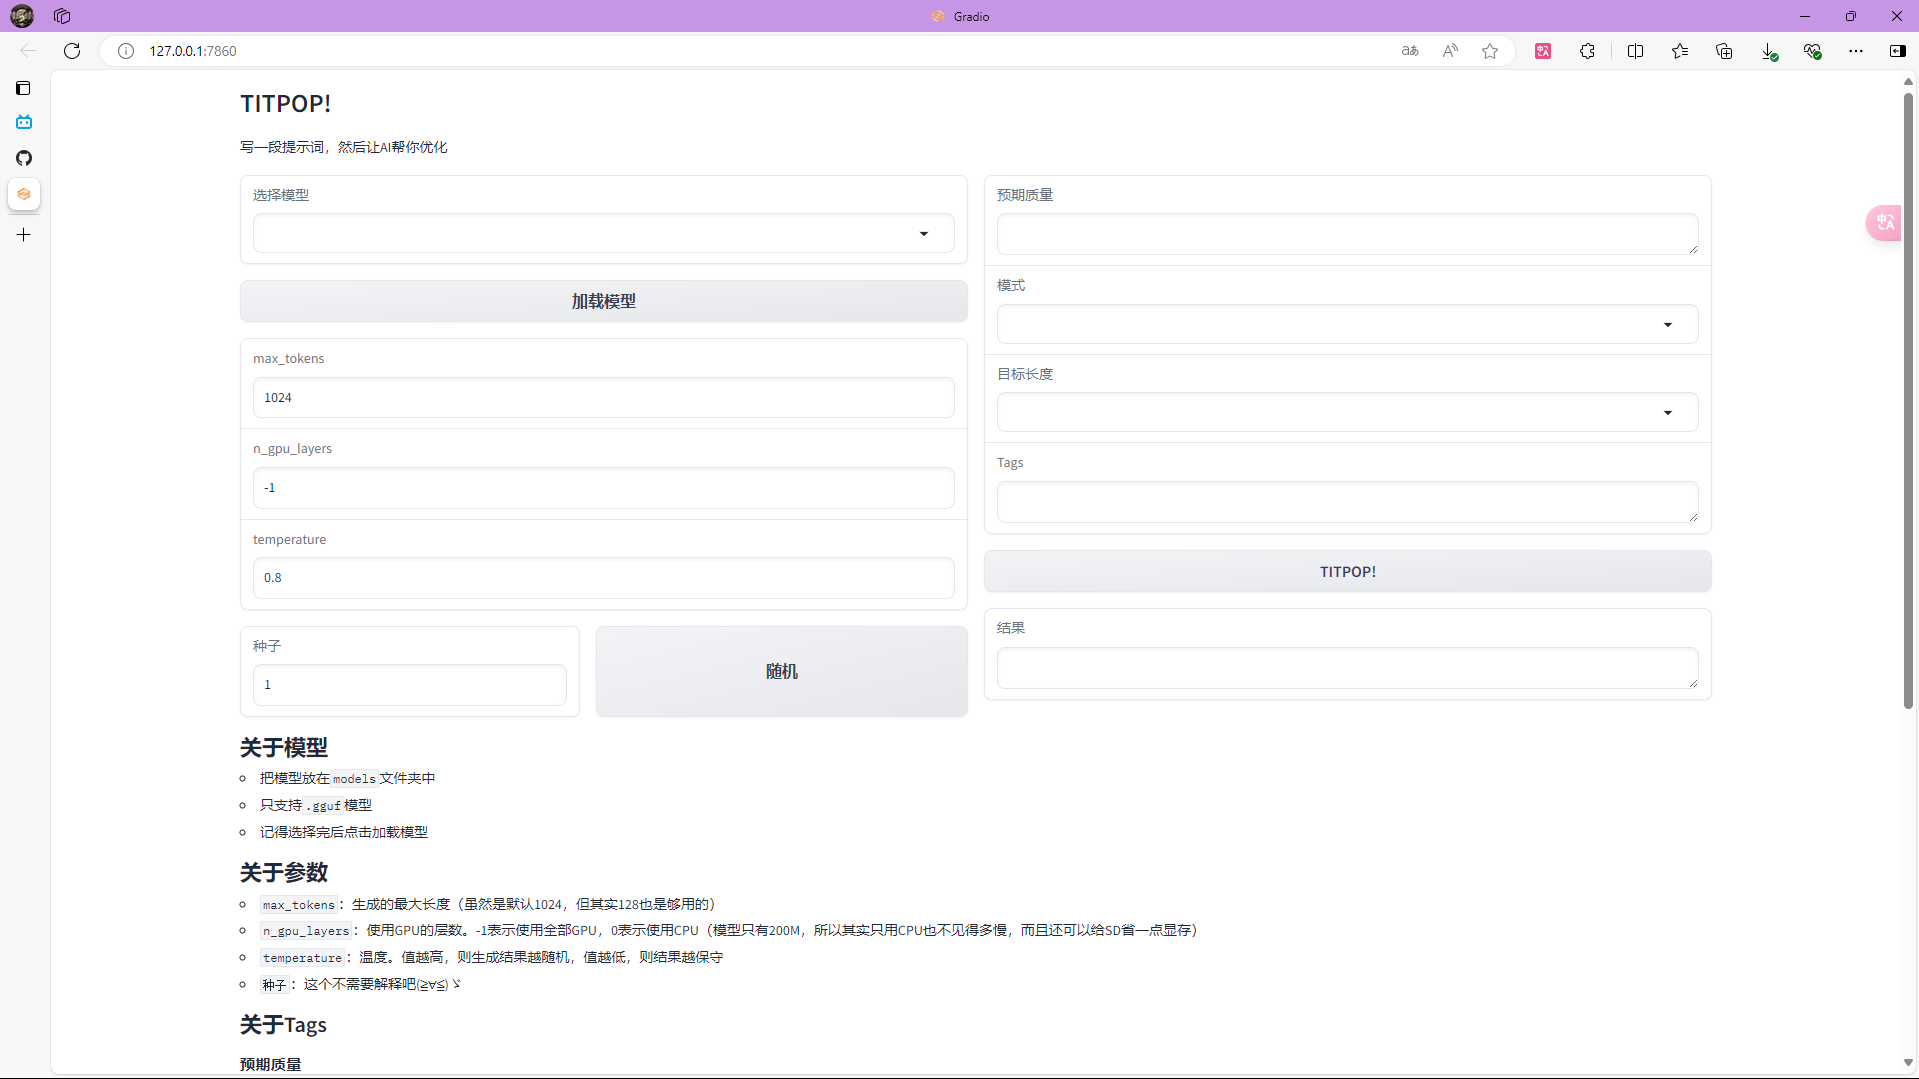
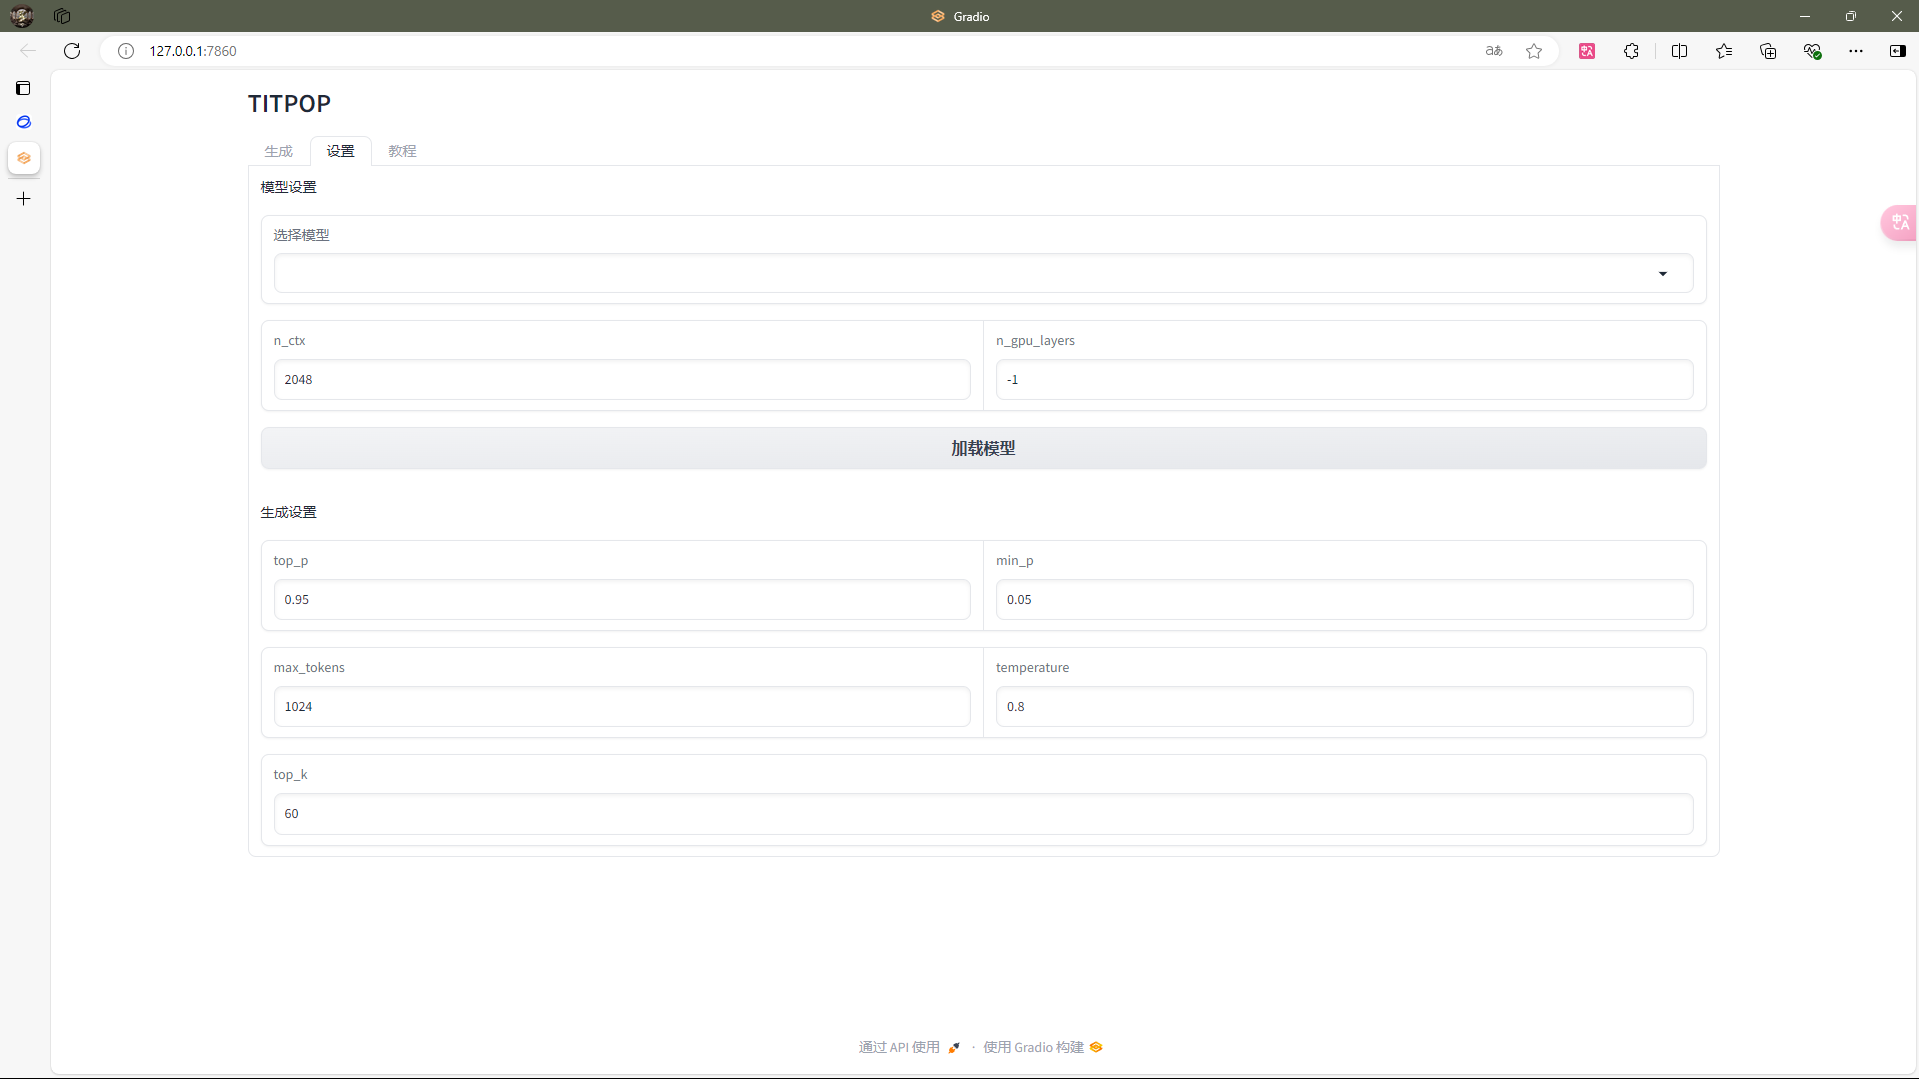
removed cli mode and format output support

diff --git a/GUI.py b/GUI.py
@@ -4,6 +4,7 @@ import os
 from llama_cpp import Llama
 import gradio as gr
 import random
+import pyperclip
 
 
 def list_model_files():
@@ -16,13 +17,13 @@ def random_seed():
     return random.randint(1, 100000)
 
 
-def load_model(model_path, gpu):
+def load_model(model_path, gpu, n_ctx):
     global llm
-    llm = Llama(model_path=model_path, n_gpu_layers=gpu)
+    llm = Llama(model_path=model_path, n_gpu_layers=gpu, n_ctx=n_ctx)
     return f"模型 {model_path} 已加载"
 
 
-def upsampling_prompt(quality_tags, mode_tags, length_tags, general_tags, max_token, temp, Seed):
+def upsampling_prompt(quality_tags, mode_tags, length_tags, general_tags, max_token, temp, Seed, top_p, min_p, top_k):
     if llm is None:
         return "未加载模型"
 
@@ -33,49 +34,105 @@ def upsampling_prompt(quality_tags, mode_tags, length_tags, general_tags, max_to
         echo=True,
         temperature=temp,
         seed=Seed,
+        top_p=top_p,
+        min_p=min_p,
+        top_k=top_k
     )
+
+    # for testing
+    print(output)
+
     return output['choices'][0]['text']
 
 
-# List available models
+def extract_and_format(model_out):
+    fields_to_extract = ['quality', 'tag', 'long', 'short', 'artist', 'characters', 'meta', 'rating']
+
+    def extract_fields(model_output):
+        extracted_data = {}
+
+        for line in model_output.split('\n'):
+            for field in fields_to_extract:
+                if line.startswith(field + ':'):
+                    extracted_data[field] = line[len(field) + 1:].strip()
+
+        return extracted_data
+
+    extracted_data = extract_fields(model_out)
+    formatted_output = ""
+
+    for field in fields_to_extract:
+        # Add the field and its value or an empty line if the field is missing
+        formatted_output += f"{extracted_data.get(field, '')}\n\n"
+
+    return formatted_output
+
+
+def update_format_output(formatted_text):
+    text = extract_and_format(formatted_text)
+    format_output = gr.Textbox(value=text, interactive=False)
+    return format_output
+
+def copy_to_clipboard(output):
+    pyperclip.copy(output)
+    return "已复制到剪贴板"
+
+
 print("正在查找模型...")
+# List available models
 available_models = list_model_files()
 
 print("正在启动 Gradio UI...")
 
-with gr.Blocks() as demo:
+with gr.Blocks() as iface:
     gr.Markdown("""
     # TITPOP
-    写一段提示词，然后让AI帮你优化
     """)
 
     with gr.Tab("生成"):
         with gr.Row():
-            with gr.Column():
-                model_selector = gr.Dropdown(label="选择模型", choices=available_models)
-                load_btn = gr.Button("加载模型")
-                load_feedback = gr.Markdown("")
-                max_tokens = gr.Number(label="max_tokens", value=1024)
-                n_gpu_layers = gr.Number(label="n_gpu_layers", value=-1)
-                temprature = gr.Number(label="temperature", value=0.8)
-                with gr.Row():
-                    Seed = gr.Number(label="种子", value=1)
-                    Seed_random = gr.Button("随机")
+            Seed = gr.Number(label="种子", value=1)
+            Seed_random = gr.Button("随机")
+        with gr.Row():
+            mode_tags = gr.Dropdown(
+                label="模式",
+                choices=["None", "tag_to_long", "long_to_tag", "short_to_long", "short_to_tag", "tag_to_short_to_long",
+                         "short_to_tag_to_long", "short_to_long_to_tag"],
+                value="None"
+            )
+            length_tags = gr.Dropdown(
+                label="目标长度",
+                choices=["very_short", "short", "long", "very_long"],
+                value="short"
+            )
+        with gr.Row():
+            quality_tags = gr.Textbox(label="预期质量")
+            general_tags = gr.Textbox(label="Tags")
+        upsampling_btn = gr.Button("TITPOP!")
+        with gr.Row():
+            copy_btn = gr.Button("复制到剪贴板")
+            copy_info = gr.Textbox(show_label=False, interactive=False)
+        with gr.Row():
+            raw_output = gr.Textbox(label="结果", interactive=False)
+            formatted_output = gr.Textbox(label="格式化结果", interactive=False)
+            raw_output.change(update_format_output, inputs=raw_output, outputs=formatted_output)
 
-            with gr.Column():
-                quality_tags = gr.Textbox(label="预期质量")
-                mode_tags = gr.Dropdown(
-                    label="模式",
-                    choices=["None", "tag_to_long", "long_to_tag", "short_to_long", "short_to_tag", "tag_to_short_to_long",
-                             "short_to_tag_to_long", "short_to_long_to_tag"],
-                )
-                length_tags = gr.Dropdown(
-                    label="目标长度",
-                    choices=["short", "long", "very long"],
-                )
-                general_tags = gr.Textbox(label="Tags")
-                upsampling_btn = gr.Button("TITPOP!")
-                output = gr.Textbox(label="结果", interactive=False)
+    with gr.Tab("设置"):
+        gr.Markdown("模型设置")
+        model_selector = gr.Dropdown(label="选择模型", choices=available_models)
+        with gr.Row():
+            n_ctx = gr.Number(label="n_ctx", value=2048)
+            n_gpu_layers = gr.Number(label="n_gpu_layers", value=-1)
+        load_btn = gr.Button("加载模型")
+        load_feedback = gr.Markdown("")
+        gr.Markdown("生成设置")
+        with gr.Row():
+            top_p = gr.Number(label="top_p", value=0.95)
+            min_p = gr.Number(label="min_p", value=0.05)
+        with gr.Row():
+            max_tokens = gr.Number(label="max_tokens", value=1024)
+            temprature = gr.Number(label="temperature", value=0.8)
+        top_k = gr.Number(label="top_k", value=60)
 
     with gr.Tab("教程"):
         gr.Markdown("""
@@ -87,6 +144,8 @@ with gr.Blocks() as demo:
             - `max_tokens`：生成的最大长度（虽然是默认1024，但其实128也是够用的）
             - `n_gpu_layers`：使用GPU的层数。-1表示使用全部GPU，0表示使用CPU（模型只有200M，所以其实只用CPU也不见得多慢，而且还可以给SD省一点显存）
             - `temperature`：温度。值越高，则生成结果越随机，值越低，则结果越保守
+            - `n_ctx`：上下文长度。这个值越大，模型能记住的信息越多，但也会导致显存占用增加
+            - `top_p`、`min_p`、`top_k`：我也不知道是啥，所以建议保持默认（
             - `种子`：这个不需要解释吧(≧∀≦)ゞ
             ## 关于Tags
             #### 预期质量
@@ -106,18 +165,23 @@ with gr.Blocks() as demo:
             #### Tags
             - 你在跑图时写的其他所有标签
             ## 关于输出
-            - 成熟的跑图玩家应该会自己看输出
+            ### 结果
+            - 模型生成的文本
+            - 并不是原始结果，只是经过了处理的原始结果，不能直接用来出图，但可以获得比格式化结果更多的信息
+            - 如果要查看原始结果，取消注释`#for testing`的代码，然后在控制台查看原始结果
+            ### 格式化结果
+            - 模型生成的文本，经过格式化处理，可以直接用来出图
             """)
 
     # button event
     upsampling_btn.click(
         fn=upsampling_prompt,
-        inputs=[quality_tags, mode_tags, length_tags, general_tags, max_tokens, temprature, Seed],
-        outputs=output
+        inputs=[quality_tags, mode_tags, length_tags, general_tags, max_tokens, temprature, Seed, top_p, min_p, top_k],
+        outputs=raw_output
     )
     load_btn.click(
         fn=load_model,
-        inputs=[model_selector, n_gpu_layers],
+        inputs=[model_selector, n_gpu_layers, n_ctx],
         outputs=load_feedback
     )
     Seed_random.click(
@@ -125,5 +189,10 @@ with gr.Blocks() as demo:
         inputs=None,
         outputs=Seed
     )
+    copy_btn.click(
+        fn=copy_to_clipboard,
+        inputs=formatted_output,
+        outputs=copy_info
+    )
 
-demo.launch()
+iface.launch()

diff --git a/README.md b/README.md
@@ -1,10 +1,11 @@
 # TITPOP GUI
 
+![img_1.png](img_1.png)
 ![img.png](img.png)
 
 ## 琥珀青叶（繁体字不会打）大佬的`TITPOP`的 GUI 版本
 
-要查看`TITPOP`的模型权重，前往：[TITPOP](https://hf-mirror.com/KBlueLeaf/TITPOP-200M-dev)
+要查看`TITPOP`的模型权重，前往：[TITPOP（镜像站）](https://hf-mirror.com/KBlueLeaf/TITPOP-200M-dev)
 
 或者有能力的可以直接去[huggingface的原站点](https://huggingface.co/KBlueLeaf/TITPOP-200M-dev)看看
 
@@ -12,15 +13,14 @@
 
 ## 使用方法
 
-去[TITPOP](https://hf-mirror.com/KBlueLeaf/TITPOP-200M-dev)下载`.gguf`文件，放进脚本所在目录下的`models`文件夹里
-
-然后自己选一个喜欢的脚本跑起来就行了
+去前面提到的模型权重那里下载`.gguf`文件，放进脚本所在目录下的`models`文件夹里，然后直接打开GUI.py就行了（记得先配置好环境）
 
 ## 依赖
-
+llama-cpp-python 要 GPU 版的
 ```
 llama-cpp-python
 gradio
+pyperclip
 ```
 
 ---
